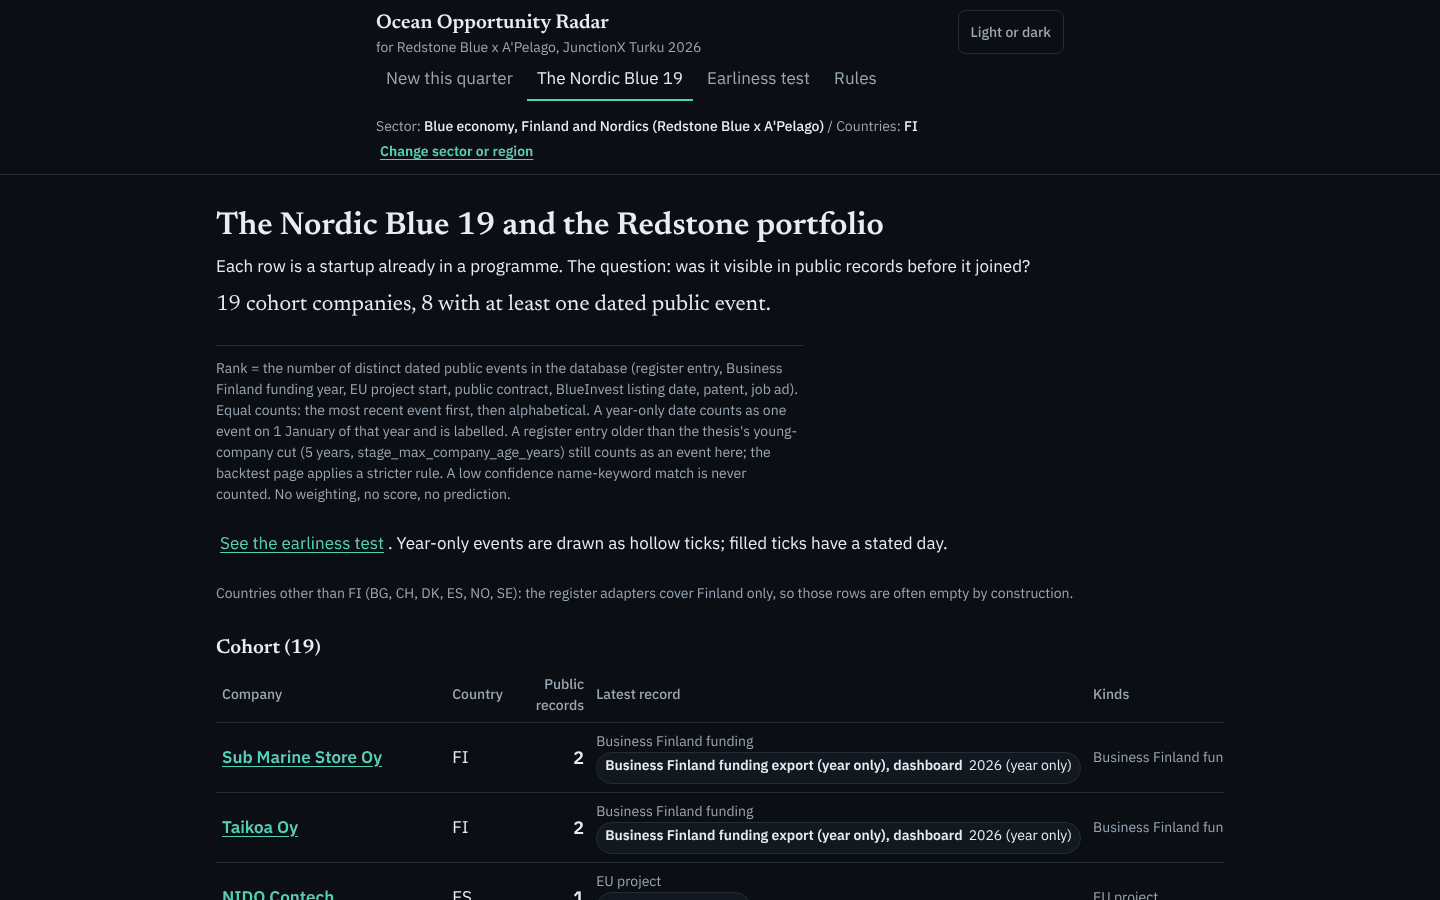
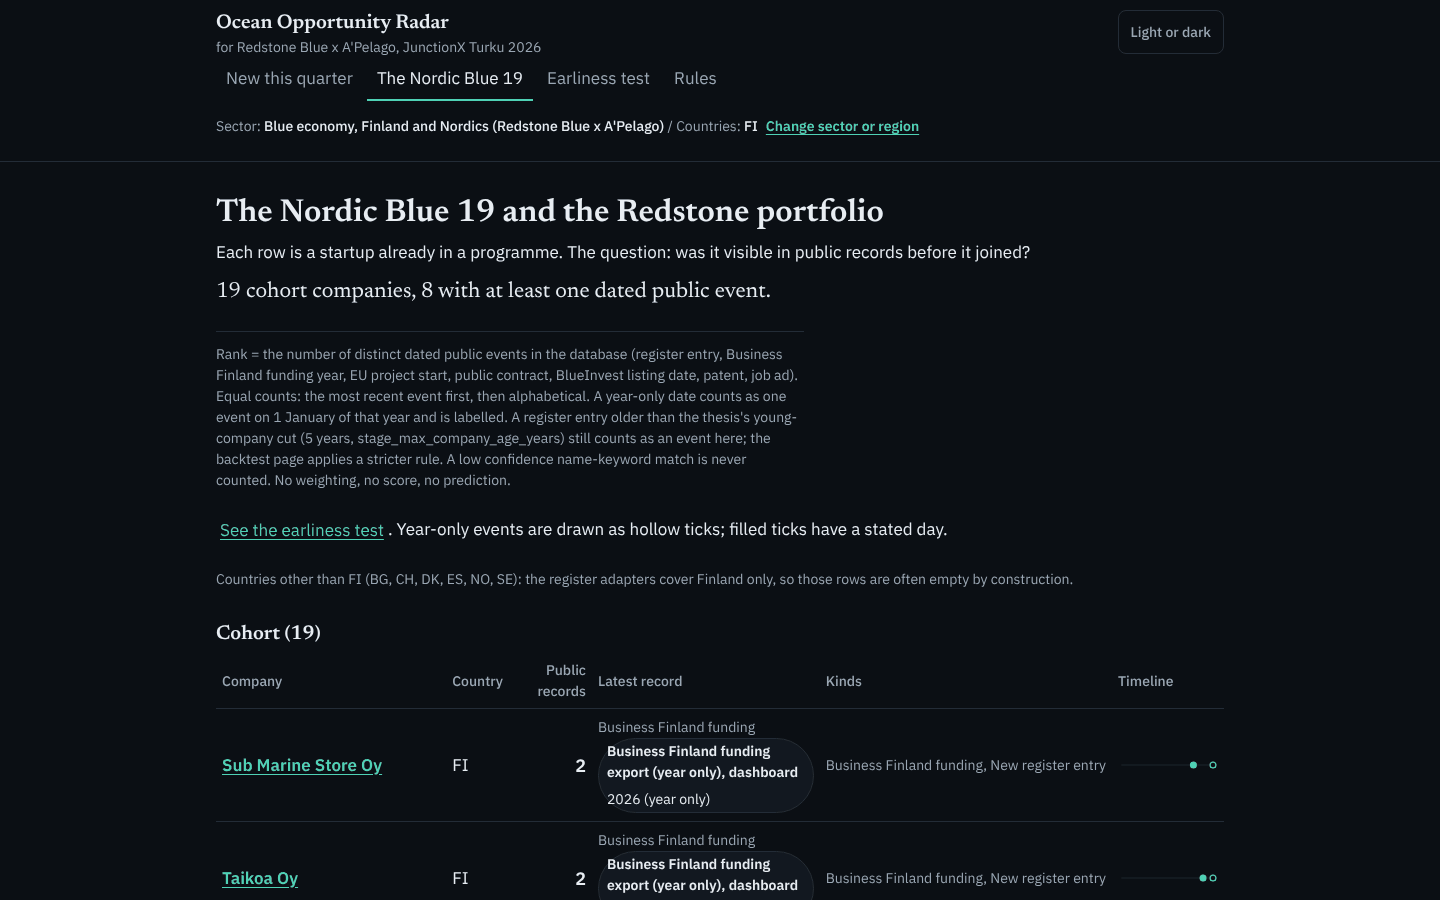
visual polish: radar table fits its column on a laptop; final after shots
- /radar on a laptop: the latest-record chip wraps, so Kinds and Timeline are
  on screen instead of behind a sideways scroll (the table was wider than its
  1040 px column before this task too); header and footer line up with it.
- docs/shots/after/ refreshed (14 viewport PNGs, 575 KB; before set 563 KB).
- Slop list checked: no gradients, no emoji, no animated counters, no
  "Welcome to", no placeholder avatars, and the three entry cards on the start
  page are now one line of links.

Final measurements (Playwright, data/snapshot, 390x844, dark and light): every
page 0 text under 14 px, 0 contrast below AA, 0 tap targets under 44 px apart
from inline text links, no sideways scroll; first company row at 730 px on a
phone (was 1,869) and 660 px on a laptop (was 1,001). pytest: 292 passed, 1
skipped (7 in tests/test_visual_polish.py).

Proposed for the chief's docs: DESIGN.md "Rules" could add the tokens now in
:root (--s1..--s7 spacing, --radius 8 px, --round for pills and chips, --tap
44 px, --fs-small 14 px, --fs-answer 22 px) and "body 17 px / 1.5".
[…]

diff --git a/radar/static/radar.css b/radar/static/radar.css
@@ -63,3 +63,10 @@ main.wrap{max-width:1040px}
   .rd-none td.rd-n{font-family:var(--sans);font-size:inherit}
   .rd-table td.rd-strip svg{width:100%;max-width:240px;height:18px}
 }
+/* jx30: on a laptop the table fits its column (the latest-record chip wraps instead of pushing Kinds and Timeline off screen),
+   and the header and footer line up with the 1040 px column */
+@media (min-width:641px){
+  .rd-table .ev-chip{white-space:normal;flex-wrap:wrap}
+  .rd-table td.rd-latest{min-width:14rem;max-width:22rem}
+}
+body:has(.rd-table) .top .wrap,body:has(.rd-table) .foot{max-width:1040px}
